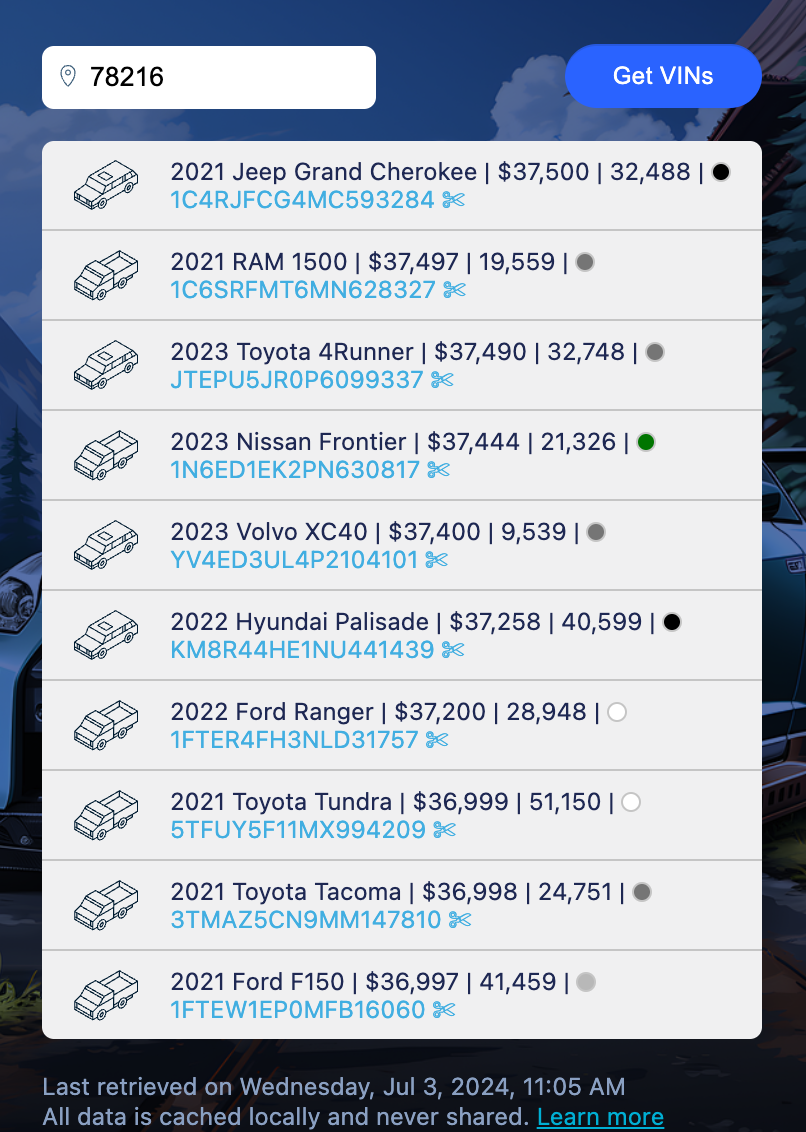
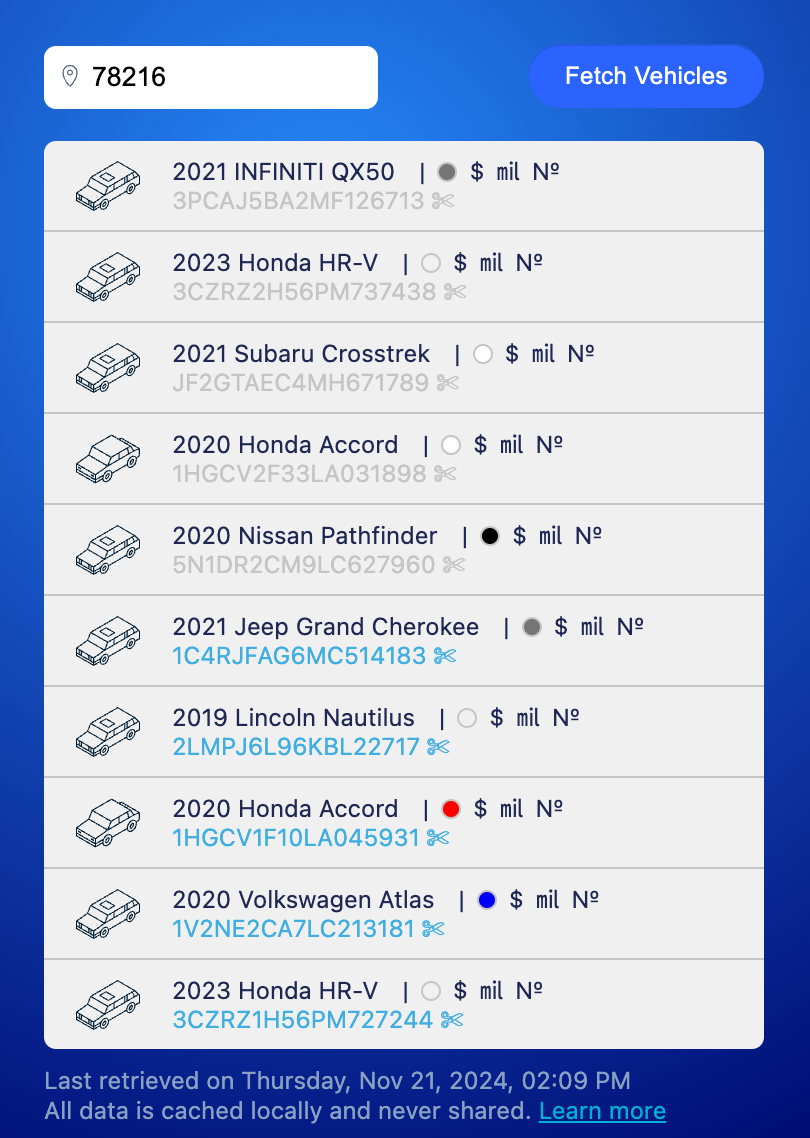
Updates UI

diff --git a/popup.js b/popup.js
@@ -69,8 +69,10 @@
       zipCodeField.classList.remove('error');
     }
 
-    // Create an array of 0 - 290, in increments of 10.
-    const pages = Array(30).fill(0).map((e, i) => i * 10);
+    // Create an array of 0 - 290 by increments of 10.
+    const recordsPerPage = 10;
+    const pages = Array(30).fill(0).map((e, i) => i * recordsPerPage);
+    const randomPage = pages[Math.floor(Math.random() * pages.length)];
 
     // const url = 'https://autotrader.com/rest/searchresults/base?' +
     const url = 'https://www.autotrader.com/rest/lsc/listing?' +
@@ -80,14 +82,14 @@
       // 'vehicleStyleCode=SEDAN&' +
       // 'maxMileage=60000&' +
       // 15000 (under), 30000, 45000, 60000, 75000, 100000, 150000, 200000, 200001 (over), 0 (any)
-      'mileage=100000' +
+      'mileage=100000&' +
       'maxPrice=30000&' +
       'zip=' + zipCode + '&' +
       // 10, 25, 50, 75, 100, 200, 300, 400, 500, 0 (Nationwide)
       'searchRadius=0&' +
       'sortBy=relevance&' +
-      'numRecords=10&' +
-      'firstRecord=' + pages[Math.floor(Math.random() * pages.length)];
+      'numRecords=' + recordsPerPage + '&' +
+      'firstRecord=' + randomPage;
 
     // Fetch data
     const response = await fetch(url);
@@ -168,10 +170,53 @@
     color.className = 'color';
     color.style.backgroundColor = listing.color;
 
+    let priceTooltip = document.createElement('span');
+    priceTooltip.className = 'tooltip-left';
+    priceTooltip.textContent = listing.price;
+
+    let priceIcon = document.createElement('span');
+    priceIcon.className = 'price tooltip';
+    priceIcon.textContent = '\u{0024}';
+    priceIcon.appendChild(priceTooltip);
+
+    let odometerTooltip = document.createElement('span');
+    odometerTooltip.className = 'tooltip-left';
+    odometerTooltip.textContent = listing.mileage;
+
+    // let odometerImage = document.createElement('img');
+    // odometerImage.className = 'odometer-icon'
+    // odometerImage.src = '/assets/icons/odometer.svg';
+
+    let odometerIcon = document.createElement('span');
+    odometerIcon.className = 'mileage tooltip';
+    // odometerIcon.textContent = '\u{1F55B}'; // clock
+    // odometerIcon.textContent = '\u{24D3}'; // (d)
+    odometerIcon.textContent = '\u{33D5}'; // mil
+    odometerIcon.appendChild(odometerTooltip);
+
+    let blueBookTooltip = document.createElement('span');
+    blueBookTooltip.className = 'tooltip-left';
+    blueBookTooltip.textContent = listing.kbbVehicleId;
+
+    let blueBookIcon = document.createElement('span');
+    blueBookIcon.className = 'blue-book-icon tooltip';
+    // blueBookIcon.textContent = '\u{1F4D8}'; // blue book
+    blueBookIcon.textContent = '\u{2116}'; // numero
+    // blueBookIcon.textContent = '\u{1F194}';
+    blueBookIcon.appendChild(blueBookTooltip);
+
+    let titleSeparator = document.createElement('span');
+    titleSeparator.className = 'title-separator';
+    titleSeparator.textContent = '|';
+
     let title = document.createElement('div');
-    title.textContent = [listing.title, listing.price, listing.mileage, ' '].join(' | ');
+    title.textContent = [listing.title].join(' | ');
     title.className = 'title';
+    title.appendChild(titleSeparator);
     title.appendChild(color);
+    title.appendChild(priceIcon);
+    title.appendChild(odometerIcon);
+    if (listing.kbbVehicleId !== 0) title.appendChild(blueBookIcon);
 
     let vin = document.createElement('div');
     vin.textContent = listing.vin + ' \u2704'; // \u2713 = checkmark

diff --git a/style.css b/style.css
@@ -3,11 +3,16 @@
 }
 
 body {
-  background: #617ab1;
+  /* background: #617ab1;
   background-image: url("./ai-generated-8233111_1280.png");
   background-size: cover;
   background-blend-mode: multiply;
-  background-position: right center;
+  background-position: right center; */
+
+  /* background: -webkit-linear-gradient(-45deg, #225e9e 0%, #712c69 100%);
+  background: linear-gradient(-45deg, #225e9e 0%, #712c69 100%); */
+
+  background-image: radial-gradient( circle farthest-corner at 40% 20%,  rgba(37,145,251,0.98) 0.1%, rgba(0,7,128,1) 99.8% );
   color: #fff;
   display: flex;
   flex-direction: column;
@@ -76,13 +81,14 @@ h1 {
   box-shadow: inset 0 1px 0 rgb(18 38 63 / 15%);
   box-sizing: border-box;
   color: #fff;
+  cursor: pointer;
   font-size: 12px;
   font-weight: 500;
   height: 32px;
   letter-spacing: 0.25px;
   margin-left: auto;
   margin-top: -2px;
-  padding: 0 2em;
+  padding: 0 1.5em;
   text-shadow: none;
   text-transform: none;
   transition: all 0.1s linear;
@@ -218,11 +224,31 @@ p {
   margin: 0;
 }
 
+.title-separator {
+  margin: 0 0 0 1em;
+}
+
+.color {
+  margin: 0 0 0 0.5em;
+}
+
+.price {
+  margin-left: 0.5em;
+}
+
+.mileage {
+  margin-left: 0.5em;
+}
+
+.blue-book-icon {
+  margin-left: 0.5em;
+}
+
 footer {
   color: #95aac9;
   font-size: 12px;
   line-height: 1.25em;
-  padding: 16px 0 4px;
+  padding: 8px 0 8px;
 }
 
 #lastUpdated {
@@ -280,6 +306,7 @@ footer {
 
 /*https://www.w3schools.com/css/css_tooltip.asp*/
 .tooltip {
+  cursor: text;
   position: relative;
   display: inline-block;
 }
@@ -312,7 +339,35 @@ footer {
   border-color: transparent black transparent transparent;
 }
 
+.tooltip .tooltip-left {
+  visibility: hidden;
+  width: 80px;
+  background-color: black;
+  color: #fff;
+  text-align: center;
+  padding: 5px 0;
+  border-radius: 6px;
+
+  /* Position the tooltip text - see examples below! */
+  position: absolute;
+  z-index: 1;
+
+  top: -4px;
+  left: -85px;
+}
+
+.tooltip .tooltip-left::after {
+  content: " ";
+  position: absolute;
+  top: 50%;
+  left: 100%; /* To the left of the tooltip */
+  margin-top: -5px;
+  border-width: 5px;
+  border-style: solid;
+  border-color: transparent transparent transparent black;
+}
+
 /* Show the tooltip text when you mouse over the tooltip container */
-.tooltip:hover .tooltiptext {
+.tooltip:hover .tooltiptext, .tooltip:hover .tooltip-left {
   visibility: visible;
 }

diff --git a/popup.html b/popup.html
@@ -15,7 +15,7 @@
 
       <div class="grid-item" style="text-align: right;">
         <button id="idsButton">
-          Get VINs
+          Fetch Vehicles
           <span id="idsButtonCount"></span>
         </button>
       </div>
@@ -33,7 +33,7 @@
     <div id="lastUpdated">Last retrieved on <span></span></div>
     <div id="disclaimer">
       All data is cached locally and never shared.
-      <a href="https://github.com/michaelminter/vin-list-extension" target="_blank">Learn more</a>
+      <a href="https://github.com/michaelminter/vin-explorer" target="_blank">Learn more</a>
     </div>
   </footer>
   <script src="./popup.js"></script>
